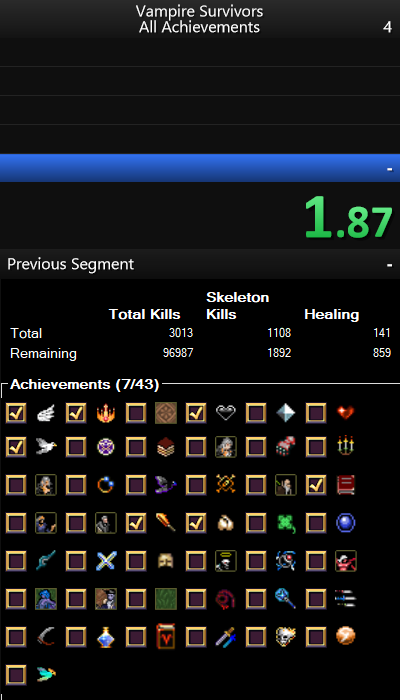
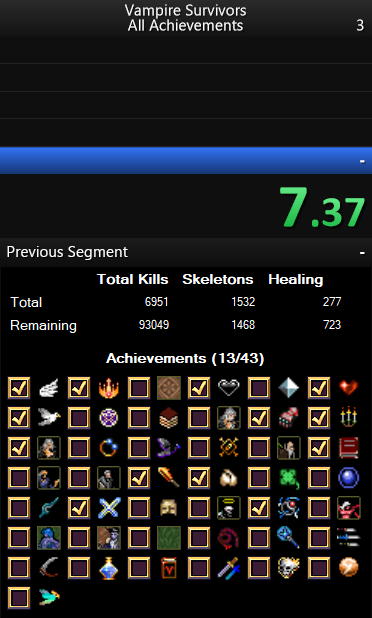
Update UI, README, and screenshots for multi-version support

diff --git a/UI/Controls/VampireSurvivorsControl.Designer.cs b/UI/Controls/VampireSurvivorsControl.Designer.cs
@@ -44,10 +44,11 @@ namespace LiveSplit.VampireSurvivors.UI.Controls {
             this.tblBase.SuspendLayout();
             this.pnlCounters.SuspendLayout();
             this.SuspendLayout();
-            // 
+            //
             // tblBase
-            // 
+            //
             this.tblBase.AutoSize = true;
+            this.tblBase.AutoSizeMode = System.Windows.Forms.AutoSizeMode.GrowAndShrink;
             this.tblBase.ColumnCount = 1;
             this.tblBase.ColumnStyles.Add(new System.Windows.Forms.ColumnStyle(System.Windows.Forms.SizeType.Percent, 100F));
             this.tblBase.Controls.Add(this.lblAchievements, 0, 1);
@@ -55,29 +56,32 @@ namespace LiveSplit.VampireSurvivors.UI.Controls {
             this.tblBase.Controls.Add(this.flpAchievements, 0, 2);
             this.tblBase.Dock = System.Windows.Forms.DockStyle.Fill;
             this.tblBase.Location = new System.Drawing.Point(0, 0);
+            this.tblBase.MinimumSize = new System.Drawing.Size(300, 60);
             this.tblBase.Name = "tblBase";
             this.tblBase.RowCount = 3;
             this.tblBase.RowStyles.Add(new System.Windows.Forms.RowStyle());
             this.tblBase.RowStyles.Add(new System.Windows.Forms.RowStyle());
             this.tblBase.RowStyles.Add(new System.Windows.Forms.RowStyle());
-            this.tblBase.Size = new System.Drawing.Size(400, 232);
+            this.tblBase.Size = new System.Drawing.Size(454, 232);
             this.tblBase.TabIndex = 0;
-            // 
+            //
             // lblAchievements
-            // 
+            //
+            this.lblAchievements.Anchor = System.Windows.Forms.AnchorStyles.Top;
+            this.lblAchievements.AutoSize = true;
             this.lblAchievements.BackColor = System.Drawing.Color.Transparent;
-            this.lblAchievements.Dock = System.Windows.Forms.DockStyle.Fill;
             this.lblAchievements.Font = new System.Drawing.Font("Microsoft Sans Serif", 10F, System.Drawing.FontStyle.Bold, System.Drawing.GraphicsUnit.Point, ((byte) (0)));
             this.lblAchievements.ForeColor = System.Drawing.SystemColors.ControlLightLight;
-            this.lblAchievements.Location = new System.Drawing.Point(3, 103);
+            this.lblAchievements.Location = new System.Drawing.Point(173, 82);
+            this.lblAchievements.Margin = new System.Windows.Forms.Padding(3, 10, 3, 4);
             this.lblAchievements.Name = "lblAchievements";
-            this.lblAchievements.Size = new System.Drawing.Size(394, 23);
+            this.lblAchievements.Size = new System.Drawing.Size(108, 17);
             this.lblAchievements.TabIndex = 4;
             this.lblAchievements.Text = "Achievements";
             this.lblAchievements.TextAlign = System.Drawing.ContentAlignment.TopCenter;
-            // 
+            //
             // pnlCounters
-            // 
+            //
             this.pnlCounters.AutoSize = true;
             this.pnlCounters.AutoSizeMode = System.Windows.Forms.AutoSizeMode.GrowAndShrink;
             this.pnlCounters.ColumnCount = 4;
@@ -97,168 +101,174 @@ namespace LiveSplit.VampireSurvivors.UI.Controls {
             this.pnlCounters.Controls.Add(this.lblSkelesRem, 2, 2);
             this.pnlCounters.Controls.Add(this.lblHealingRem, 3, 2);
             this.pnlCounters.Location = new System.Drawing.Point(3, 3);
-            this.pnlCounters.MinimumSize = new System.Drawing.Size(300, 80);
             this.pnlCounters.Name = "pnlCounters";
             this.pnlCounters.RowCount = 3;
             this.pnlCounters.RowStyles.Add(new System.Windows.Forms.RowStyle());
             this.pnlCounters.RowStyles.Add(new System.Windows.Forms.RowStyle());
             this.pnlCounters.RowStyles.Add(new System.Windows.Forms.RowStyle());
-            this.pnlCounters.Size = new System.Drawing.Size(394, 97);
+            this.pnlCounters.Size = new System.Drawing.Size(344, 66);
             this.pnlCounters.TabIndex = 1;
-            // 
+            //
             // lblKillHeader
-            // 
+            //
+            this.lblKillHeader.Anchor = ((System.Windows.Forms.AnchorStyles) ((System.Windows.Forms.AnchorStyles.Bottom | System.Windows.Forms.AnchorStyles.Left)));
             this.lblKillHeader.AutoSize = true;
-            this.lblKillHeader.Dock = System.Windows.Forms.DockStyle.Fill;
             this.lblKillHeader.Font = new System.Drawing.Font("Microsoft Sans Serif", 10F, System.Drawing.FontStyle.Bold, System.Drawing.GraphicsUnit.Point, ((byte) (0)));
             this.lblKillHeader.ForeColor = System.Drawing.SystemColors.ControlLightLight;
-            this.lblKillHeader.Location = new System.Drawing.Point(101, 0);
+            this.lblKillHeader.Location = new System.Drawing.Point(89, 0);
+            this.lblKillHeader.Margin = new System.Windows.Forms.Padding(3, 0, 3, 3);
             this.lblKillHeader.Name = "lblKillHeader";
-            this.lblKillHeader.Size = new System.Drawing.Size(92, 34);
+            this.lblKillHeader.Size = new System.Drawing.Size(80, 17);
             this.lblKillHeader.TabIndex = 0;
             this.lblKillHeader.Text = "Total Kills";
             this.lblKillHeader.TextAlign = System.Drawing.ContentAlignment.BottomLeft;
-            // 
+            //
             // lblSkelesHeader
-            // 
+            //
+            this.lblSkelesHeader.Anchor = ((System.Windows.Forms.AnchorStyles) ((System.Windows.Forms.AnchorStyles.Bottom | System.Windows.Forms.AnchorStyles.Left)));
             this.lblSkelesHeader.AutoSize = true;
-            this.lblSkelesHeader.Dock = System.Windows.Forms.DockStyle.Fill;
             this.lblSkelesHeader.Font = new System.Drawing.Font("Microsoft Sans Serif", 10F, System.Drawing.FontStyle.Bold, System.Drawing.GraphicsUnit.Point, ((byte) (0)));
             this.lblSkelesHeader.ForeColor = System.Drawing.SystemColors.ControlLightLight;
-            this.lblSkelesHeader.Location = new System.Drawing.Point(199, 0);
+            this.lblSkelesHeader.Location = new System.Drawing.Point(175, 0);
+            this.lblSkelesHeader.Margin = new System.Windows.Forms.Padding(3, 0, 3, 3);
             this.lblSkelesHeader.Name = "lblSkelesHeader";
-            this.lblSkelesHeader.Size = new System.Drawing.Size(92, 34);
+            this.lblSkelesHeader.Size = new System.Drawing.Size(79, 17);
             this.lblSkelesHeader.TabIndex = 1;
-            this.lblSkelesHeader.Text = "Skeleton Kills";
+            this.lblSkelesHeader.Text = "Skeletons";
             this.lblSkelesHeader.TextAlign = System.Drawing.ContentAlignment.BottomLeft;
-            // 
+            //
             // lblHealingHeader
-            // 
+            //
+            this.lblHealingHeader.Anchor = ((System.Windows.Forms.AnchorStyles) ((System.Windows.Forms.AnchorStyles.Bottom | System.Windows.Forms.AnchorStyles.Left)));
             this.lblHealingHeader.AutoSize = true;
-            this.lblHealingHeader.Dock = System.Windows.Forms.DockStyle.Fill;
             this.lblHealingHeader.Font = new System.Drawing.Font("Microsoft Sans Serif", 10F, System.Drawing.FontStyle.Bold, System.Drawing.GraphicsUnit.Point, ((byte) (0)));
             this.lblHealingHeader.ForeColor = System.Drawing.SystemColors.ControlLightLight;
-            this.lblHealingHeader.Location = new System.Drawing.Point(297, 0);
+            this.lblHealingHeader.Location = new System.Drawing.Point(261, 0);
+            this.lblHealingHeader.Margin = new System.Windows.Forms.Padding(3, 0, 3, 3);
             this.lblHealingHeader.Name = "lblHealingHeader";
-            this.lblHealingHeader.Size = new System.Drawing.Size(94, 34);
+            this.lblHealingHeader.Size = new System.Drawing.Size(63, 17);
             this.lblHealingHeader.TabIndex = 2;
             this.lblHealingHeader.Text = "Healing";
             this.lblHealingHeader.TextAlign = System.Drawing.ContentAlignment.BottomLeft;
-            // 
+            //
             // lblCumuHeader
-            // 
-            this.lblCumuHeader.Dock = System.Windows.Forms.DockStyle.Fill;
+            //
+            this.lblCumuHeader.Anchor = System.Windows.Forms.AnchorStyles.Left;
+            this.lblCumuHeader.AutoSize = true;
             this.lblCumuHeader.Font = new System.Drawing.Font("Microsoft Sans Serif", 10F, System.Drawing.FontStyle.Regular, System.Drawing.GraphicsUnit.Point, ((byte) (0)));
             this.lblCumuHeader.ForeColor = System.Drawing.SystemColors.ControlLightLight;
-            this.lblCumuHeader.Location = new System.Drawing.Point(3, 34);
+            this.lblCumuHeader.Location = new System.Drawing.Point(3, 23);
+            this.lblCumuHeader.Margin = new System.Windows.Forms.Padding(3);
             this.lblCumuHeader.Name = "lblCumuHeader";
-            this.lblCumuHeader.Size = new System.Drawing.Size(92, 20);
+            this.lblCumuHeader.Size = new System.Drawing.Size(40, 17);
             this.lblCumuHeader.TabIndex = 3;
             this.lblCumuHeader.Text = "Total";
             this.lblCumuHeader.TextAlign = System.Drawing.ContentAlignment.MiddleLeft;
-            // 
+            //
             // lblRemHeader
-            // 
-            this.lblRemHeader.Dock = System.Windows.Forms.DockStyle.Fill;
+            //
+            this.lblRemHeader.Anchor = System.Windows.Forms.AnchorStyles.Left;
+            this.lblRemHeader.AutoSize = true;
             this.lblRemHeader.Font = new System.Drawing.Font("Microsoft Sans Serif", 10F, System.Drawing.FontStyle.Regular, System.Drawing.GraphicsUnit.Point, ((byte) (0)));
             this.lblRemHeader.ForeColor = System.Drawing.SystemColors.ControlLightLight;
-            this.lblRemHeader.Location = new System.Drawing.Point(3, 54);
+            this.lblRemHeader.Location = new System.Drawing.Point(3, 46);
+            this.lblRemHeader.Margin = new System.Windows.Forms.Padding(3);
             this.lblRemHeader.Name = "lblRemHeader";
-            this.lblRemHeader.Size = new System.Drawing.Size(92, 43);
+            this.lblRemHeader.Size = new System.Drawing.Size(75, 17);
             this.lblRemHeader.TabIndex = 4;
             this.lblRemHeader.Text = "Remaining";
             this.lblRemHeader.TextAlign = System.Drawing.ContentAlignment.MiddleLeft;
-            // 
+            //
             // lblKillsCumu
-            // 
+            //
+            this.lblKillsCumu.Anchor = System.Windows.Forms.AnchorStyles.Right;
             this.lblKillsCumu.AutoSize = true;
-            this.lblKillsCumu.Dock = System.Windows.Forms.DockStyle.Fill;
             this.lblKillsCumu.ForeColor = System.Drawing.SystemColors.ControlLightLight;
-            this.lblKillsCumu.Location = new System.Drawing.Point(101, 34);
+            this.lblKillsCumu.Location = new System.Drawing.Point(156, 25);
             this.lblKillsCumu.Name = "lblKillsCumu";
-            this.lblKillsCumu.Size = new System.Drawing.Size(92, 20);
+            this.lblKillsCumu.Size = new System.Drawing.Size(13, 13);
             this.lblKillsCumu.TabIndex = 5;
             this.lblKillsCumu.Text = "0";
             this.lblKillsCumu.TextAlign = System.Drawing.ContentAlignment.MiddleRight;
-            // 
+            //
             // lblSkelesCumu
-            // 
+            //
+            this.lblSkelesCumu.Anchor = System.Windows.Forms.AnchorStyles.Right;
             this.lblSkelesCumu.AutoSize = true;
-            this.lblSkelesCumu.Dock = System.Windows.Forms.DockStyle.Fill;
             this.lblSkelesCumu.ForeColor = System.Drawing.SystemColors.ControlLightLight;
-            this.lblSkelesCumu.Location = new System.Drawing.Point(199, 34);
+            this.lblSkelesCumu.Location = new System.Drawing.Point(242, 25);
             this.lblSkelesCumu.Name = "lblSkelesCumu";
-            this.lblSkelesCumu.Size = new System.Drawing.Size(92, 20);
+            this.lblSkelesCumu.Size = new System.Drawing.Size(13, 13);
             this.lblSkelesCumu.TabIndex = 6;
             this.lblSkelesCumu.Text = "0";
             this.lblSkelesCumu.TextAlign = System.Drawing.ContentAlignment.MiddleRight;
-            // 
+            //
             // lblHealingCumu
-            // 
+            //
+            this.lblHealingCumu.Anchor = System.Windows.Forms.AnchorStyles.Right;
             this.lblHealingCumu.AutoSize = true;
-            this.lblHealingCumu.Dock = System.Windows.Forms.DockStyle.Fill;
             this.lblHealingCumu.ForeColor = System.Drawing.SystemColors.ControlLightLight;
-            this.lblHealingCumu.Location = new System.Drawing.Point(297, 34);
+            this.lblHealingCumu.Location = new System.Drawing.Point(328, 25);
             this.lblHealingCumu.Name = "lblHealingCumu";
-            this.lblHealingCumu.Size = new System.Drawing.Size(94, 20);
+            this.lblHealingCumu.Size = new System.Drawing.Size(13, 13);
             this.lblHealingCumu.TabIndex = 7;
             this.lblHealingCumu.Text = "0";
             this.lblHealingCumu.TextAlign = System.Drawing.ContentAlignment.MiddleRight;
-            // 
+            //
             // lblKillsRem
-            // 
+            //
+            this.lblKillsRem.Anchor = System.Windows.Forms.AnchorStyles.Right;
             this.lblKillsRem.AutoSize = true;
-            this.lblKillsRem.Dock = System.Windows.Forms.DockStyle.Fill;
             this.lblKillsRem.ForeColor = System.Drawing.SystemColors.ControlLightLight;
-            this.lblKillsRem.Location = new System.Drawing.Point(101, 54);
+            this.lblKillsRem.Location = new System.Drawing.Point(156, 48);
             this.lblKillsRem.Name = "lblKillsRem";
-            this.lblKillsRem.Size = new System.Drawing.Size(92, 43);
+            this.lblKillsRem.Size = new System.Drawing.Size(13, 13);
             this.lblKillsRem.TabIndex = 8;
             this.lblKillsRem.Text = "0";
             this.lblKillsRem.TextAlign = System.Drawing.ContentAlignment.MiddleRight;
-            // 
+            //
             // lblSkelesRem
-            // 
+            //
+            this.lblSkelesRem.Anchor = System.Windows.Forms.AnchorStyles.Right;
             this.lblSkelesRem.AutoSize = true;
-            this.lblSkelesRem.Dock = System.Windows.Forms.DockStyle.Fill;
             this.lblSkelesRem.ForeColor = System.Drawing.SystemColors.ControlLightLight;
-            this.lblSkelesRem.Location = new System.Drawing.Point(199, 54);
+            this.lblSkelesRem.Location = new System.Drawing.Point(242, 48);
             this.lblSkelesRem.Name = "lblSkelesRem";
-            this.lblSkelesRem.Size = new System.Drawing.Size(92, 43);
+            this.lblSkelesRem.Size = new System.Drawing.Size(13, 13);
             this.lblSkelesRem.TabIndex = 9;
             this.lblSkelesRem.Text = "0";
             this.lblSkelesRem.TextAlign = System.Drawing.ContentAlignment.MiddleRight;
-            // 
+            //
             // lblHealingRem
-            // 
+            //
+            this.lblHealingRem.Anchor = System.Windows.Forms.AnchorStyles.Right;
             this.lblHealingRem.AutoSize = true;
-            this.lblHealingRem.Dock = System.Windows.Forms.DockStyle.Fill;
             this.lblHealingRem.ForeColor = System.Drawing.SystemColors.ControlLightLight;
-            this.lblHealingRem.Location = new System.Drawing.Point(297, 54);
+            this.lblHealingRem.Location = new System.Drawing.Point(328, 48);
             this.lblHealingRem.Name = "lblHealingRem";
-            this.lblHealingRem.Size = new System.Drawing.Size(94, 43);
+            this.lblHealingRem.Size = new System.Drawing.Size(13, 13);
             this.lblHealingRem.TabIndex = 10;
             this.lblHealingRem.Text = "0";
             this.lblHealingRem.TextAlign = System.Drawing.ContentAlignment.MiddleRight;
-            // 
+            //
             // flpAchievements
-            // 
+            //
             this.flpAchievements.AutoSize = true;
             this.flpAchievements.Dock = System.Windows.Forms.DockStyle.Fill;
-            this.flpAchievements.Location = new System.Drawing.Point(3, 129);
+            this.flpAchievements.Location = new System.Drawing.Point(3, 106);
             this.flpAchievements.Name = "flpAchievements";
-            this.flpAchievements.Size = new System.Drawing.Size(394, 100);
+            this.flpAchievements.Size = new System.Drawing.Size(448, 123);
             this.flpAchievements.TabIndex = 5;
-            // 
+            //
             // VampireSurvivorsControl
-            // 
+            //
             this.AutoScaleDimensions = new System.Drawing.SizeF(6F, 13F);
             this.AutoScaleMode = System.Windows.Forms.AutoScaleMode.Font;
             this.AutoSize = true;
             this.Controls.Add(this.tblBase);
-            this.MinimumSize = new System.Drawing.Size(400, 100);
+            this.MinimumSize = new System.Drawing.Size(300, 100);
             this.Name = "VampireSurvivorsControl";
-            this.Size = new System.Drawing.Size(400, 232);
+            this.Size = new System.Drawing.Size(454, 232);
             this.Load += new System.EventHandler(this.VampireSurvivorsControl_Load);
             this.tblBase.ResumeLayout(false);
             this.tblBase.PerformLayout();

diff --git a/README.md b/README.md
@@ -9,8 +9,9 @@ This component works by reading the save data of your Vampire Survivors game, al
 
 - Automatically updates based on save data content &mdash; no need to manually mark achievements off
 - Tracks cumulative total kills, skeleton kills, and healing
-- Tracks achievements achieved so far, displaying them in the in-game order using the in-game icons
+- Tracks achievements attained so far, displaying them in the in-game order using the in-game icons
 - Achievement descriptions on icon hover
+- Automatically detects the game version and shows on the achievements attainable in the detected game version
 
 ### Limitations
 
@@ -18,7 +19,9 @@ Achievements and kills/healing are only updated at the end of each run. This is 
 
 ### Supported versions
 
-Only version 0.2.11 is currently supported.
+Vampire Survivors versions 0.2.11 and up are supported.
+
+Older versions will probably still work, but they will display all 43 achievements attainable in 0.2.11 regardless of their existence in the installed version of Vampire Survivors. Any issues encountered when using this component with a version of Vampire Survivors older than 0.2.11 will not be addressed, as the component does not provide support for those versions.
 
 ## Instructions
 
@@ -35,9 +38,9 @@ Only version 0.2.11 is currently supported.
 5. Ensure that the Vampire Survivors installation directory has been filled in the text box. If it is not automatically detected, use the `...` button to manually select it
 6. Accept the layout and return to the main LiveSplit screen
 
-You may need to readjust your LiveSplit window's size to ensure that the achievements tracker is fully visible. It should look like this:
+You may need to readjust your LiveSplit window's size to ensure that the achievements tracker is fully visible. It should look like this (with the exact achievements shown varying depending on your Vampire Survivors version):
 
-![Vampire Survivors Tracker UI in LiveSplit](livesplit-vampiresurvivors_0.2.11.png)
+![Vampire Survivors Tracker UI in LiveSplit (Vampire Survivors v0.2.11)](livesplit-vampiresurvivors_0.2.11.png)
 
 __Note:__ It will start tracking stats when you start a split, and it will stop tracking when you stop a split. When LiveSplit's timer is not running (unless paused), it will display the default all-zero stats.
 
